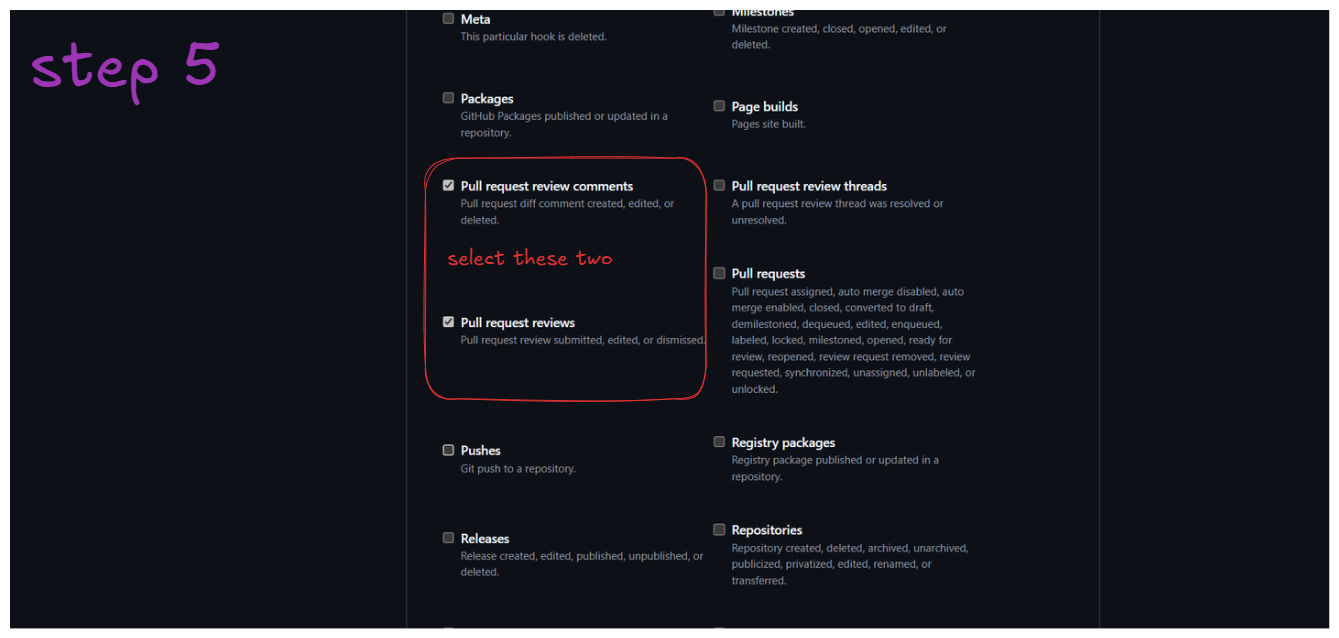
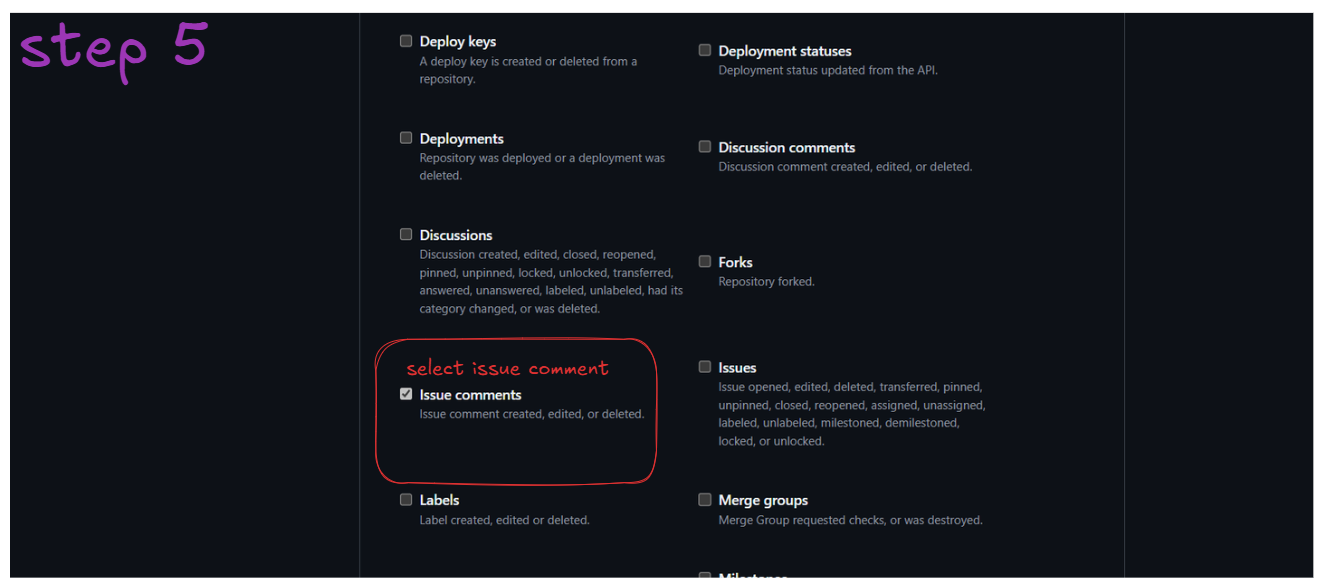
.

diff --git a/src/app/api/webhook/[...route].ts b/src/app/api/webhook/[...route].ts
@@ -1,0 +1,48 @@
+import type { NextApiRequest, NextApiResponse } from "next";
+interface ExtendedNextApiRequest extends NextApiRequest {
+  rawBody: Buffer;
+}
+export const config = {
+  api: {
+    bodyParser: {
+      json: {
+        verify: (
+          req: ExtendedNextApiRequest,
+          res: NextApiResponse,
+          buf: Buffer
+        ) => {
+          req.rawBody = buf;
+        },
+      },
+    },
+  },
+};
+
+export default async function handler(
+  req: NextApiRequest,
+  res: NextApiResponse
+) {
+  if (req.method == "POST") {
+    const payload = req.body;
+
+    if (payload.action !== "created" || !payload.comment) {
+      return res.status(200).json({ message: "Ignored event" });
+    }
+    const bountyCommand = extractBountyCommand(payload.comment.body);
+  } else {
+    res.setHeader("Allow", ["POST"]);
+    res.status(405).end(`Method ${req.method} Not Allowed`);
+  }
+}
+function extractBountyCommand(
+  commentBody: string
+): { amount: number; recipient: string } | null {
+  const match = commentBody.match(/\/bounty \$(\d+) @(\w+)/);
+  if (match) {
+    return {
+      amount: parseInt(match[1], 10),
+      recipient: match[2],
+    };
+  }
+  return null;
+}

diff --git a/src/app/(main)/(pages)/repos/page.tsx b/src/app/(main)/(pages)/repos/page.tsx
@@ -7,9 +7,9 @@ type Props = {};
 export default function ReposPage({}: Props) {
   return (
     <div className="flex flex-col">
-      <div className="flex flex-row justify-between">
+      <div className="flex flex-row justify-between mb-2">
         <div>Your Repos</div>
-        <div>
+        <div >
           <Link href={"/repos/new"} className="flex items-center" passHref={true}>
             <Button variant="ghost" className="px-4 outline outline-2">
               New
@@ -18,7 +18,11 @@ export default function ReposPage({}: Props) {
           </Link>
         </div>
       </div>
-      <div>REpo List</div>
+      <hr className="opacity-35"/>
+
+      <div className=" flex w-full flex-col mt-3">
+        <div className="w-full border border-gray-400 border-opacity-20 rounded-lg p-3">list</div>
+      </div>
     </div>
   );
 }
